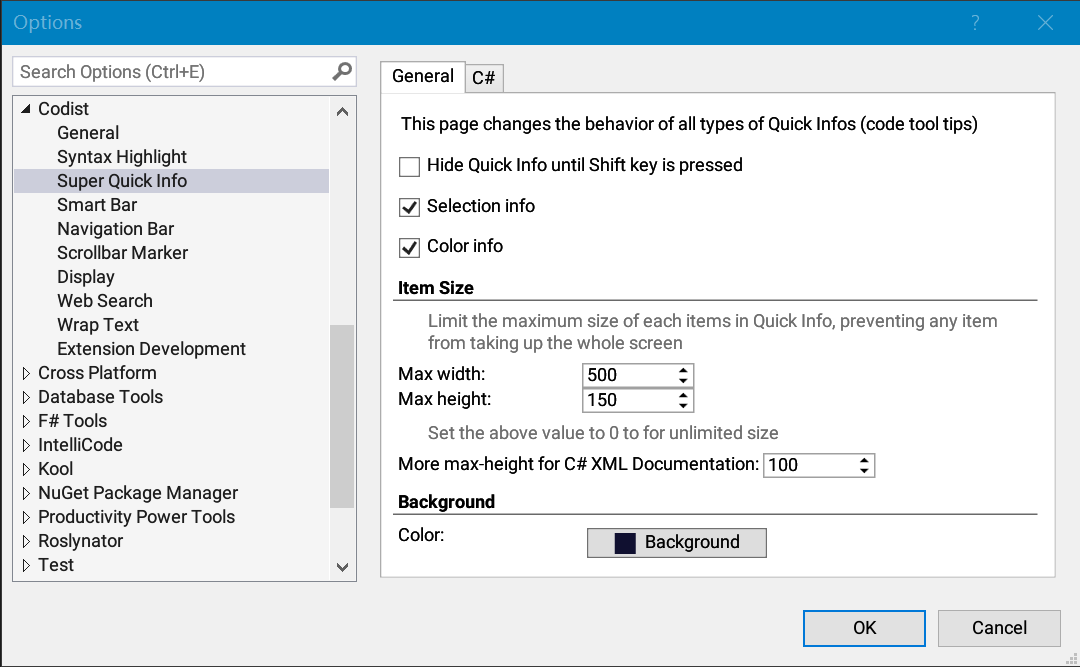
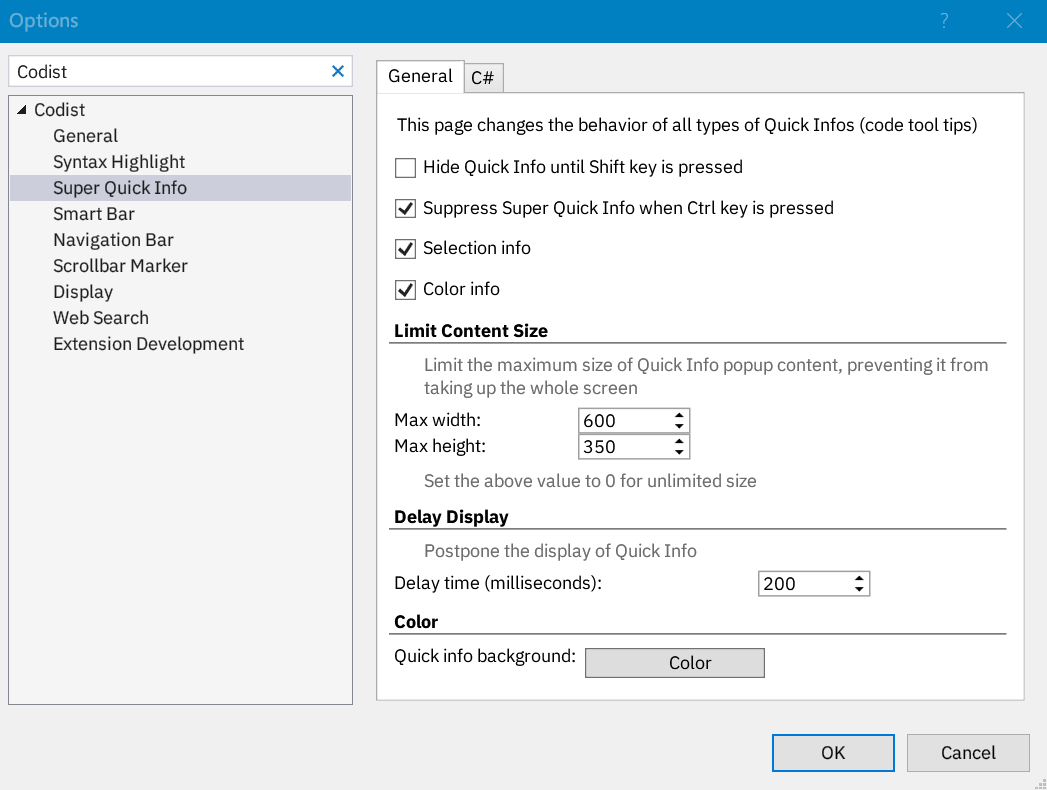
Version 7.5

Changed region(s): [[0.0, 0.0, 1.0, 0.8996], [0.0, 0.8996, 1.0, 1.0]]

diff --git a/Codist/Config.cs b/Codist/Config.cs
@@ -15,7 +15,7 @@ namespace Codist
 {
 	sealed class Config
 	{
-		internal const string CurrentVersion = "7.4.0";
+		internal const string CurrentVersion = "7.5.0";
 		const string ThemePrefix = "res:";
 		const int DefaultIconSize = 20;
 		internal const string LightTheme = ThemePrefix + "Light",

diff --git a/README.md b/README.md
@@ -148,13 +148,17 @@ To customize the *Super Quick Info*, adjust the settings in the options page.
   
   ![Super Quick Info - Color](doc/super-quick-info-debugger-watch.png)
 
-* **Quick Info item size**
+* **Quick Info size**
   
-  It is possible to limit the size of each Quick Info item, so the window won't cover your whole screen.
+  From version 7.5 on, it is possible to limit the size of the Quick Info popup, so the window won't cover your whole screen.
   
-  By default, _Codist_ does not apply size limitations. You must manually set the _Max width_ and _Max height_ here. Extra height can be assigned to C# XML Documentations, so you can read more of them at a glance. If the contents exceed the width, they are wrapped, and scrollbars will appear when necessary, as the screenshot below demonstrates.
+  By default, _Codist_ does not apply size limitations. You must manually set the _Max width_ and _Max height_ here. If the contents exceed the width, they are wrapped, and scrollbars will appear when necessary, as the screenshot below demonstrates.
   
   ![Super Quick Info - Size](doc/super-quick-info-size.png)
+
+* **Display Delay**
+
+  From version 7.5 on, Codist can delay the display of Quick Info, so it won't get into your way when you move your mouse in the document window.
 
 * **Background**
   
@@ -166,7 +170,7 @@ _Super Quick Info_ especially enhances programming experience for C# programmers
 
 <img src="doc/super-quick-info-csharp-options.png" title="" alt="Super Quick Info - Options" width="617">
 
-* **Use enhanced symbol signature style** is a new setting in version 6.6, enabled by default, which optimizes the display of symbol signatures with a reorganized layout. The layout is especially optimized for long and complex signatures, yet ordinary short symbols can also benefit from it. The following is an example for the style. A large icon on the top-left part of the quick info can be clicked and brings out a menu for symbol analysis. Next to the icon is the name of the symbol with larger text size. Clicking on the name can jump to its definition. The parameters for the method are listed next. The reorganized layout never breaks the parameter type from its name, so it is easier to find out and locate each parameter type and name. Beneath the signature is the containing type of the symbol, as well the kind of the symbol. And the member type (return value) of the symbol is under the containing type.
+* **Use enhanced symbol signature style** is a new setting in version 6.6, enabled by default, which optimizes the display of symbol signatures with a reorganized layout. The layout is especially optimized for long and complex signatures, yet ordinary short symbols can also benefit from it. The following is an example for the style. A large icon on the top-left part of the quick info can be clicked and brings out a menu for symbol analysis. Next to the icon is the name of the symbol standing out with larger text. Clicking on the name can jump to its definition. The parameters for the method are listed next. The reorganized layout never breaks the parameter type from its name, so it is easier to find out and locate each parameter type and name. Beneath the signature is the containing type of the symbol, as well the kind of the symbol. And the member type (return value) of the symbol is under the containing type.
   ![C# optimized quick info](doc/csharp-optimized-quick-info.png)
 
 * **Highlight current syntax node in code editor** will draw polygonal markers the syntax node related to the place where Quick Info is triggered.
